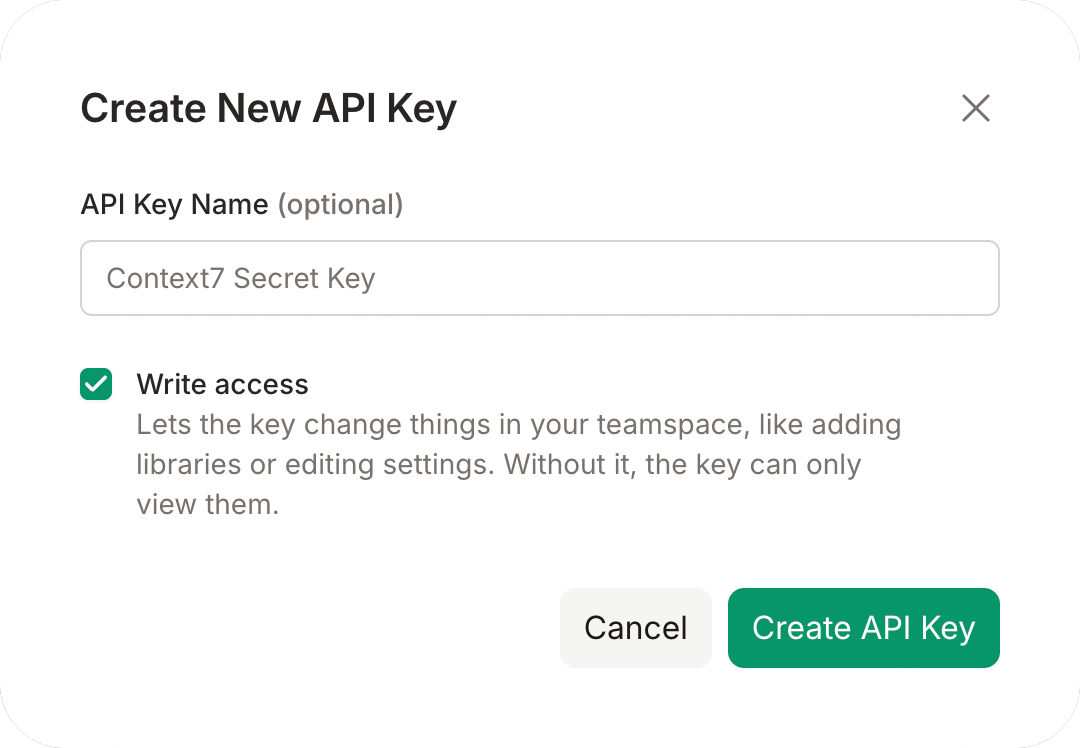
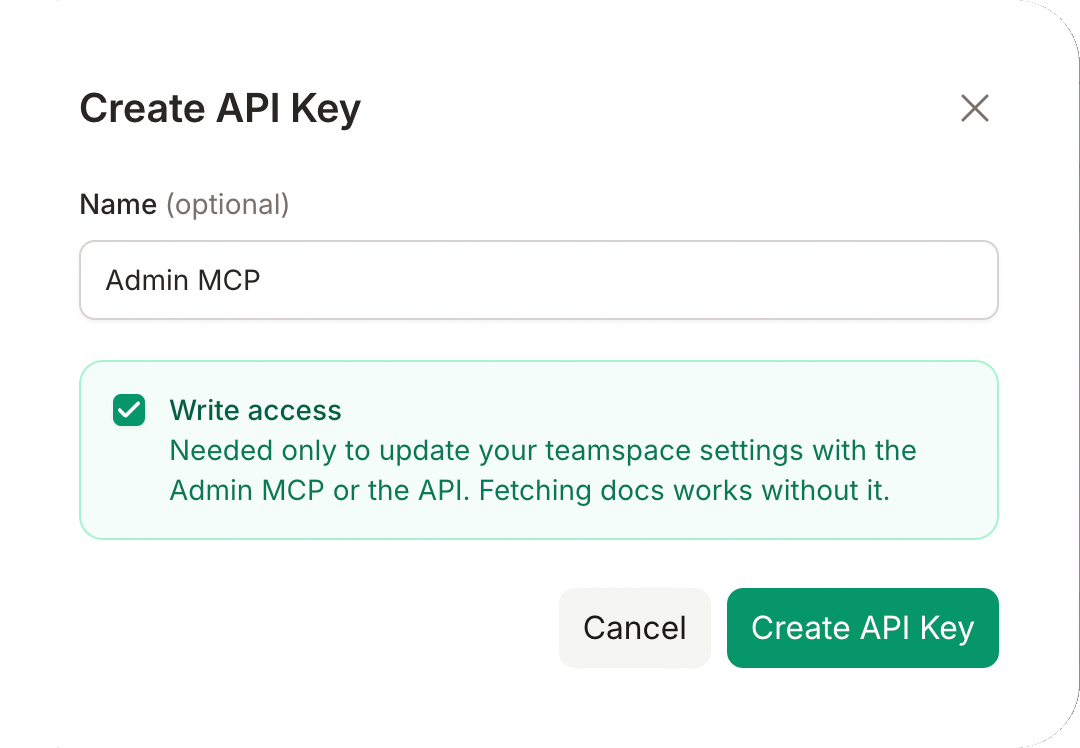
CTX7-3647: Agent prompt install and API keys on the Settings tab in docs (#3695)
* CTX7-3647: Agent prompt install and API keys on the Settings tab in docs

* CTX7-3647: Read only or Write access choice in the API key docs

* CTX7-3647: Write access checkbox wording in the API key docs

* CTX7-3647: New dashboard screenshots for API keys, usage and the create key dialog

* CTX7-3647: API keys image alt text

* CTX7-3647: Say Context7 dashboard, keep the Settings tab links

* CTX7-3647: API keys screenshot with the new access badges

* CTX7-3647: Usage link opens the Overview tab

* CTX7-3647: Show the new Write access text in the API key dialog image

diff --git a/packages/mcp/README.md b/packages/mcp/README.md
@@ -53,7 +53,7 @@ Check out our [project addition guide](https://context7.com/docs/adding-librarie
 
 - Node.js >= v20.18.1
 - Cursor, Claude Code, VSCode, Devin Desktop or another MCP Client
-- Context7 API Key (Optional) for higher rate limits and private repositories (Get yours by creating an account at [context7.com/dashboard](https://context7.com/dashboard))
+- Context7 API Key (Optional) for higher rate limits and private repositories (Get yours by creating an account at [context7.com/dashboard](https://context7.com/dashboard?tab=settings))
 
 > [!TIP]
 > **Recommended Post-Setup: Add a Rule to Auto-Invoke Context7**
@@ -788,7 +788,7 @@ To use an API key in Kiro, add:
 }
 ```
 
-You can create an API key at [context7.com/dashboard](https://context7.com/dashboard) for authenticated usage and higher rate limits.
+You can create an API key at [context7.com/dashboard](https://context7.com/dashboard?tab=settings) for authenticated usage and higher rate limits.
 
 #### Kiro Local Server Connection
 
@@ -1477,7 +1477,7 @@ bun run dist/index.js
 
 - `--transport <stdio|http>` – Transport to use (`stdio` by default). Use `http` for remote HTTP server or `stdio` for local integration.
 - `--port <number>` – Port to listen on when using `http` transport (default `3000`).
-- `--api-key <key>` – API key for authentication (or set `CONTEXT7_API_KEY` env var). You can get your API key by creating an account at [context7.com/dashboard](https://context7.com/dashboard).
+- `--api-key <key>` – API key for authentication (or set `CONTEXT7_API_KEY` env var). You can get your API key by creating an account at [context7.com/dashboard](https://context7.com/dashboard?tab=settings).
 
 Example with HTTP transport and port 8080:
 

diff --git a/plugins/codex/context7/README.md b/plugins/codex/context7/README.md
@@ -31,7 +31,7 @@ The plugin connects to the hosted Context7 MCP server:
 }
 ```
 
-When you add the plugin, a browser window opens to log in to Context7 via OAuth, so your requests use your account's authenticated rate limits. On remote or headless machines where a browser can't open, run `npx ctx7 setup --codex` instead — it uses the OAuth device flow and writes an API-key-backed configuration to `~/.codex/config.toml`. Create or manage API keys in the [Context7 dashboard](https://context7.com/dashboard).
+When you add the plugin, a browser window opens to log in to Context7 via OAuth, so your requests use your account's authenticated rate limits. On remote or headless machines where a browser can't open, run `npx ctx7 setup --codex` instead — it uses the OAuth device flow and writes an API-key-backed configuration to `~/.codex/config.toml`. Create or manage API keys in the [Context7 dashboard](https://context7.com/dashboard?tab=settings).
 
 ## Available Tools
 

diff --git a/packages/admin-mcp/README.md b/packages/admin-mcp/README.md
@@ -25,7 +25,7 @@ Clients that support MCP OAuth sign in on the first request. The server answers 
 
 ### API key (CI and scripts)
 
-Create a Context7 API key in [the dashboard](https://context7.com/dashboard) and send it as a bearer. Every key can read; turn on **Write access** when you create the key to also make changes (a key without it gets 403 on changes). A key reaches only its own teamspace.
+Create a Context7 API key in [the dashboard](https://context7.com/dashboard?tab=settings) and send it as a bearer. Every key can read; tick **Write access** when you create the key to also make changes (a key without it gets 403 on changes). A key reaches only its own teamspace.
 
 ```json
 {

diff --git a/packages/opencode/README.md b/packages/opencode/README.md
@@ -45,7 +45,7 @@ Restart OpenCode after installing. On the first documentation lookup, OpenCode o
 
 ## API Key
 
-OAuth is the default and needs no configuration. If you would rather use an API key, for example on a headless machine, create one in the [Context7 dashboard](https://context7.com/dashboard) and export it before launching OpenCode:
+OAuth is the default and needs no configuration. If you would rather use an API key, for example on a headless machine, create one in the [Context7 dashboard](https://context7.com/dashboard?tab=settings) and export it before launching OpenCode:
 
 ```bash
 # e.g. in ~/.zshrc or ~/.bashrc

diff --git a/packages/pi/README.md b/packages/pi/README.md
@@ -12,7 +12,7 @@ pi install npm:@upstash/context7-pi
 
 ## Authenticate
 
-The extension works without any setup at IP-based rate limits — useful for trying it out. For higher quotas, generate a free key at [context7.com/dashboard](https://context7.com/dashboard) and export it:
+The extension works without any setup at IP-based rate limits — useful for trying it out. For higher quotas, generate a free key at [context7.com/dashboard](https://context7.com/dashboard?tab=settings) and export it:
 
 ```bash
 export CONTEXT7_API_KEY=ctx7sk_...

diff --git a/plugins/copilot/context7/README.md b/plugins/copilot/context7/README.md
@@ -32,7 +32,7 @@ Non-interactive runs (`copilot -p`) do not open the browser. Sign in from an int
 
 ### API Key
 
-Create a free API key in the [Context7 dashboard](https://context7.com/dashboard) and export it as an environment variable before launching Copilot CLI:
+Create a free API key in the [Context7 dashboard](https://context7.com/dashboard?tab=settings) and export it as an environment variable before launching Copilot CLI:
 
 ```bash
 # e.g. in ~/.zshrc or ~/.bashrc

diff --git a/examples/eve-docs-agent/README.md b/examples/eve-docs-agent/README.md
@@ -16,7 +16,7 @@ the sources it used.
 
 ## Deploy
 
-1. Create an API key in the [Context7 dashboard](https://context7.com/dashboard).
+1. Create an API key in the [Context7 dashboard](https://context7.com/dashboard?tab=settings).
 2. Select **Deploy**. Vercel clones this repository, installs the
    [Context7 integration](https://vercel.com/marketplace/context7) with a Context7 resource for
    the new project, and asks for `CONTEXT7_API_KEY`. Paste your key.

diff --git a/README.md b/README.md
@@ -44,7 +44,7 @@ Works in two modes:
 ## Installation
 
 > [!NOTE]
-> **API Key Recommended**: Get a free API key at [context7.com/dashboard](https://context7.com/dashboard) for higher rate limits.
+> **API Key Recommended**: Get a free API key at [context7.com/dashboard](https://context7.com/dashboard?tab=settings) for higher rate limits.
 
 Set up Context7 for your coding agents with a single command. The `ctx7` CLI requires Node.js 22.13 or newer.
 
